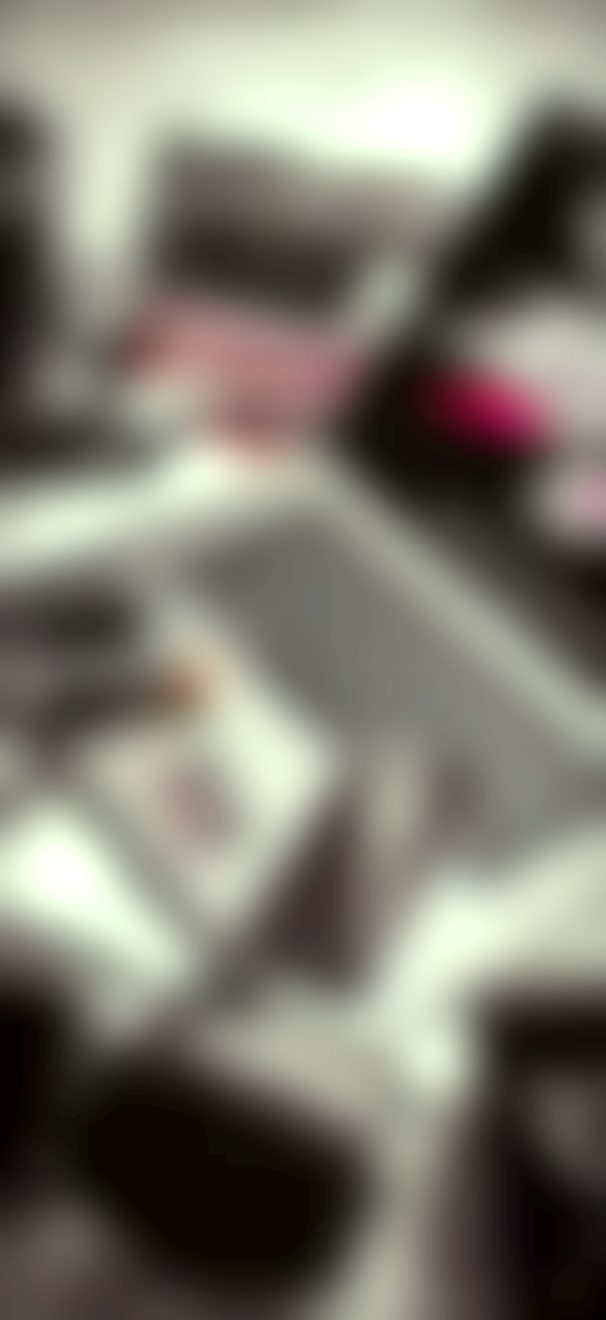
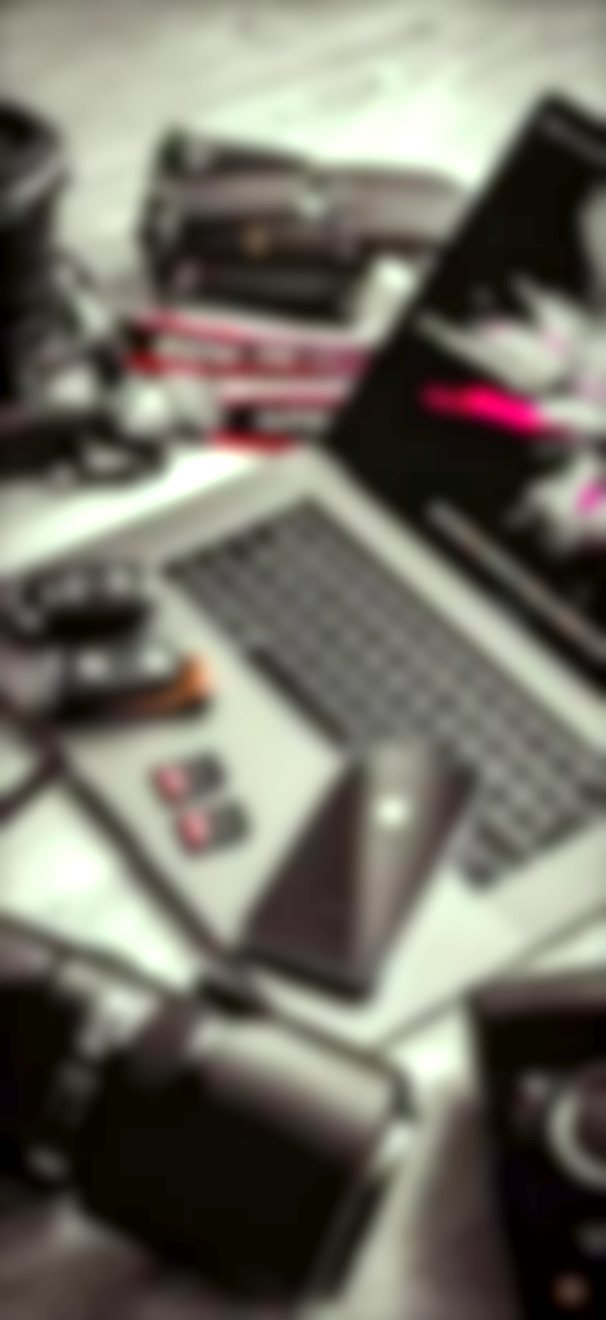
fix(mobile): a sharper background picture (blur radius 8 instead of 22)

diff --git a/docs/MobileUi.md b/docs/MobileUi.md
@@ -13,7 +13,7 @@ conservan su contrato.
 | Temas | **Claro** (crema y terracota) y **oscuro** (azul noche y cobre), los de la marca (`portal/src/theme/tokens.css`). Con un **selector** en la app: Sistema / Claro / Oscuro, que se recuerda. |
 | Tipografía | **Josefin Sans** (títulos) y **DM Sans** (texto), las mismas de la web, dentro de la app (`@expo-google-fonts`). |
 | Color dinámico de Android (Material You) | **No.** Pisaría la paleta de la marca. |
-| Fondo | La foto `camera-background.jpg` **difuminada y lavada en blanco (78 % de lavado en los dos temas, con la foto ya con los niveles estirados)** en todas las pantallas (en el tema oscuro, lavada en azul noche). |
+| Fondo | La foto `camera-background.jpg` **difuminada y lavada en blanco (78 % de lavado en los dos temas, con la foto ya con los niveles estirados y un desenfoque de radio 8: se reconocen las cámaras sin competir con el texto; la foto original es pequeña, 303×660, y con menos desenfoque se le ven los píxeles; con una foto de al menos 1080×2400 se podría bajar más)** en todas las pantallas (en el tema oscuro, lavada en azul noche). |
 
 ## 2. Cómo está hecho (fase 1, ya en el código)
 
